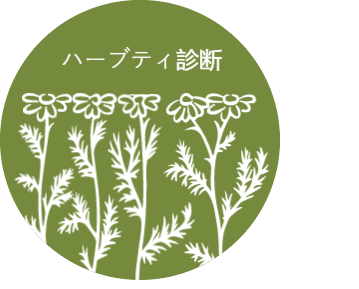
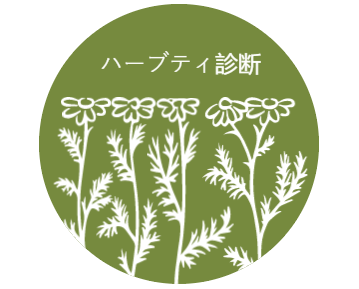
match with design

diff --git a/spa-herbareyou-vegimo/src/assets/css/index.css b/spa-herbareyou-vegimo/src/assets/css/index.css
@@ -165,8 +165,13 @@
     padding-top: 2rem;
 }
 
+.diagnose__img{
+    /* width: 240px; */
+    /* height: 200px; */
+}
+
 .p-gift-title {
-    font-size: 2.5rem;
+    font-size: 2.1rem;
     color: #6e6e6e;
     font-family: "Acme", sans-serif;
 }
@@ -361,6 +366,7 @@
     .p-gift-main {
         font-size: 0.9375 rem;
         color: #6e6e6e;
+        margin-top: 1rem;
     }
 
     .border-gift {
@@ -454,6 +460,7 @@
     .gift-section {
         height: 70%;
         gap: 2px;
+        width:70%;
     }
 
     .p-gift-title {
@@ -470,6 +477,7 @@
     .p-gift-main {
         font-size: 0.7375 rem;
         color: #6e6e6e;
+        margin-top: 0rem;
     }
 }
 

diff --git a/spa-herbareyou-vegimo/src/assets/css/common.css b/spa-herbareyou-vegimo/src/assets/css/common.css
@@ -1236,6 +1236,7 @@ input[type=checkbox]:checked + .sort-inner-item__label::after {
   -webkit-column-gap: 2%;
   -moz-column-gap: 2%;
   column-gap: 2%;
+  margin-top: 2rem;
 }
 
 @media screen and (max-width: 768px) {
@@ -2144,6 +2145,7 @@ input[type=checkbox]:checked + .sort-inner-item__label::after {
   }
   .gift-btn__link {
     padding: 0.5rem 2rem;
+    margin-top: 0rem;
   } 
 }
 /*-----keyframe-----*/

diff --git a/spa-herbareyou-vegimo/src/views/diagnose/Diagnose4.vue b/spa-herbareyou-vegimo/src/views/diagnose/Diagnose4.vue
@@ -192,6 +192,11 @@ export default defineComponent({
 
       this.isSecondShow = true;
     }
+    if(this.diagnoseData.diagnose2.condition === 20)
+    {
+      this.isSecondShow = false;
+      this.isShow = true;
+    }
     else {
       this.isShow = true;
       this.isSecondShow = false;

diff --git a/spa-admin-herbareyou-vegimo/src/views/therapist-blog/Store.vue b/spa-admin-herbareyou-vegimo/src/views/therapist-blog/Store.vue
@@ -116,7 +116,7 @@ export default defineComponent({
     therapists: [] as any[],
   }),
   mounted: async function () {
-    const result = await indexTherapistApi();
+    const result = await indexTherapistApi();   
     if (!result.success) {
       this.commonError(result);
       return;

diff --git a/spa-herbareyou-vegimo/src/assets/css/diagnose-1.css b/spa-herbareyou-vegimo/src/assets/css/diagnose-1.css
@@ -171,7 +171,7 @@
   }
   .deco {
     width: 40%;
-    bottom: 0rem;
-    right: 3rem;
+    bottom: 40rem;
+    right: 0rem;
   }
 }

diff --git a/spa-herbareyou-vegimo/src/assets/css/diagnose-2.css b/spa-herbareyou-vegimo/src/assets/css/diagnose-2.css
@@ -184,7 +184,7 @@
 
   .deco {
     width: 40%;
-    bottom: 0rem;
-    right: 3rem;
+    bottom: 40rem;
+    right: 0rem;
   }
 }

diff --git a/spa-herbareyou-vegimo/src/assets/css/diagnose-3.css b/spa-herbareyou-vegimo/src/assets/css/diagnose-3.css
@@ -190,7 +190,7 @@
 
   .deco {
     width: 40%;
-    bottom: 0rem;
-    right: 3rem;
+    bottom: 40rem;
+    right: 0rem;
   }
 }

diff --git a/spa-herbareyou-vegimo/src/assets/css/diagnose-4.css b/spa-herbareyou-vegimo/src/assets/css/diagnose-4.css
@@ -171,7 +171,7 @@
 
   .deco {
     width: 40%;
-    bottom: 0rem;
-    right: 3rem;
+    bottom: 40rem;
+    right: 0rem;
   }
 }
